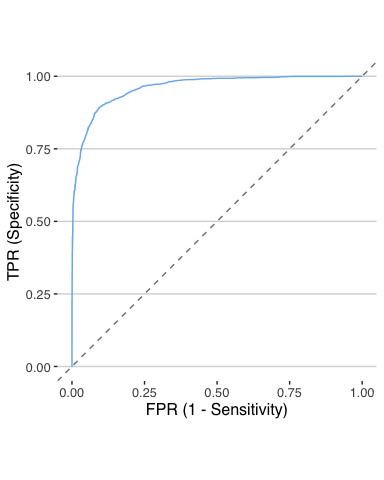
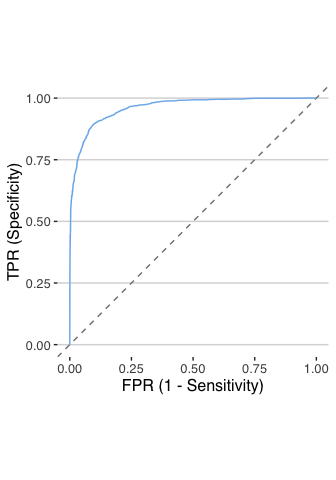
minor updates 2

diff --git a/README.md b/README.md
@@ -85,19 +85,56 @@ df <- mlgraph::eval_classifier(preds, target, pred, prob1) %>% glimpse
 ```
 
 ``` r
-gg_plot_confusion(df$confusion)
+gridExtra::grid.arrange(
+  gg_plot_confusion(df$confusion), 
+  gg_plot_roc(df$roc),
+  gg_plot_density(df$dens), nrow = 1
+)
 ```
 
 ![](man/figures/README-unnamed-chunk-6-1.png)<!-- -->
 
 ``` r
-gg_plot_roc(df$roc)
+sessionInfo()
+#> R version 3.6.0 (2019-04-26)
+#> Platform: x86_64-apple-darwin15.6.0 (64-bit)
+#> Running under: macOS  10.15.1
+#> 
+#> Matrix products: default
+#> BLAS:   /Library/Frameworks/R.framework/Versions/3.6/Resources/lib/libRblas.0.dylib
+#> LAPACK: /Library/Frameworks/R.framework/Versions/3.6/Resources/lib/libRlapack.dylib
+#> 
+#> locale:
+#> [1] en_US.UTF-8/en_US.UTF-8/en_US.UTF-8/C/en_US.UTF-8/en_US.UTF-8
+#> 
+#> attached base packages:
+#> [1] stats     graphics  grDevices utils     datasets  methods   base     
+#> 
+#> other attached packages:
+#>  [1] mlgraph_0.1.0    forcats_0.4.0    stringr_1.4.0    dplyr_0.8.3     
+#>  [5] purrr_0.3.3      readr_1.3.1      tidyr_1.0.0.9000 tibble_2.1.3    
+#>  [9] ggplot2_3.2.1    tidyverse_1.3.0  badger_0.0.4    
+#> 
+#> loaded via a namespace (and not attached):
+#>  [1] Rcpp_1.0.3           lubridate_1.7.4      lattice_0.20-38     
+#>  [4] assertthat_0.2.1     digest_0.6.23        utf8_1.1.4          
+#>  [7] R6_2.4.1             cellranger_1.1.0     plyr_1.8.5          
+#> [10] backports_1.1.5      reprex_0.3.0         evaluate_0.14       
+#> [13] httr_1.4.1           pillar_1.4.3         rlang_0.4.2         
+#> [16] lazyeval_0.2.2       readxl_1.3.1         rstudioapi_0.10     
+#> [19] rmarkdown_2.0        labeling_0.3         dlstats_0.1.0       
+#> [22] munsell_0.5.0        broom_0.5.3          compiler_3.6.0      
+#> [25] modelr_0.1.5         xfun_0.11            pkgconfig_2.0.3     
+#> [28] htmltools_0.4.0      tidyselect_0.2.5     gridExtra_2.3       
+#> [31] fansi_0.4.0          crayon_1.3.4         dbplyr_1.4.2        
+#> [34] withr_2.1.2          grid_3.6.0           nlme_3.1-139        
+#> [37] jsonlite_1.6         gtable_0.3.0         lifecycle_0.1.0     
+#> [40] DBI_1.1.0            pacman_0.5.1         magrittr_1.5        
+#> [43] pROC_1.15.3          scales_1.1.0         cli_2.0.0           
+#> [46] stringi_1.4.3        farver_2.0.1         ggthemes_4.2.0      
+#> [49] fs_1.3.1             xml2_1.2.2           rvcheck_0.1.3       
+#> [52] vctrs_0.2.99.9000    generics_0.0.2       RColorBrewer_1.1-2  
+#> [55] yardstick_0.0.4.9000 tools_3.6.0          glue_1.3.1          
+#> [58] hms_0.5.2            yaml_2.2.0           colorspace_1.4-1    
+#> [61] rvest_0.3.5          knitr_1.26           haven_2.2.0
 ```
-
-![](man/figures/README-unnamed-chunk-7-1.png)<!-- -->
-
-``` r
-gg_plot_density(df$dens)
-```
-
-![](man/figures/README-unnamed-chunk-8-1.png)<!-- -->
